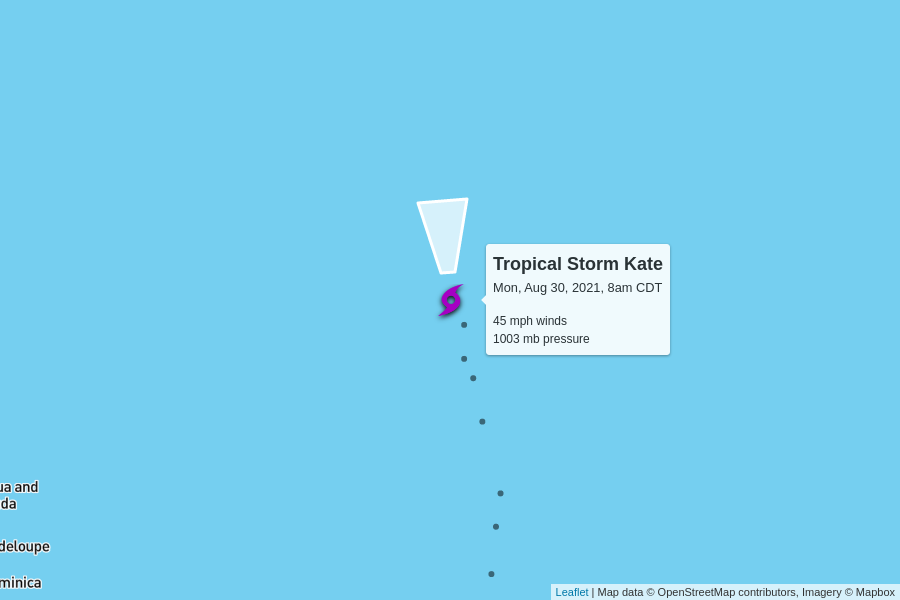
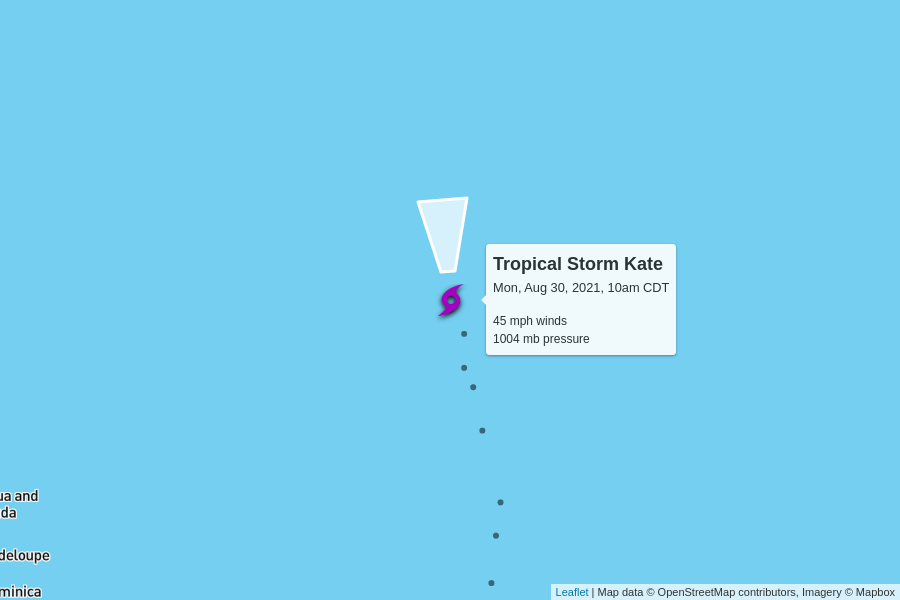
automatic update

diff --git a/docs/index.html b/docs/index.html
@@ -100,7 +100,7 @@
         <td colspan="6" class="storm category-0">
           <h2>
             Tropical Storm Kate
-            <p class="updated">last updated <span data-time>2021-08-30T13:30:00.000Z</span></p>
+            <p class="updated">last updated <span data-time>2021-08-30T15:00:00.000Z</span></p>
           </h2>
         </td>
       </tr>
@@ -116,7 +116,7 @@
       <tr>
         <td class="spacer"></td>
         <td>45 mph</td>
-        <td>1003 mb</td>
+        <td>1004 mb</td>
         <td>
           8 mph to the north
           <br/>
@@ -144,7 +144,7 @@
         <td colspan="6" class="storm category-0">
           <h2>
             Tropical Storm Ida
-            <p class="updated">last updated <span data-time>2021-08-30T12:00:00.000Z</span></p>
+            <p class="updated">last updated <span data-time>2021-08-30T15:00:00.000Z</span></p>
           </h2>
         </td>
       </tr>
@@ -159,12 +159,12 @@
       </tr>
       <tr>
         <td class="spacer"></td>
-        <td>45 mph</td>
-        <td>993 mb</td>
+        <td>40 mph</td>
+        <td>996 mb</td>
         <td>
-          8 mph to the north
+          9 mph to the north
           <br/>
-          <span style="display: inline-block; font-size: 1.5em; rotate: 360deg;">↑</span>
+          <span style="display: inline-block; font-size: 1.5em; rotate: 10deg;">↑</span>
         </td>
         <td><a href="https://raw.githubusercontent.com/mgwalker/atlantic-hurricanes/main/data/csv/AL092021.csv">AL092021.csv</a></td>
         <td><a href="https://www.nhc.noaa.gov/archive/2021/IDA.shtml?">NHC advisories</a></td>
